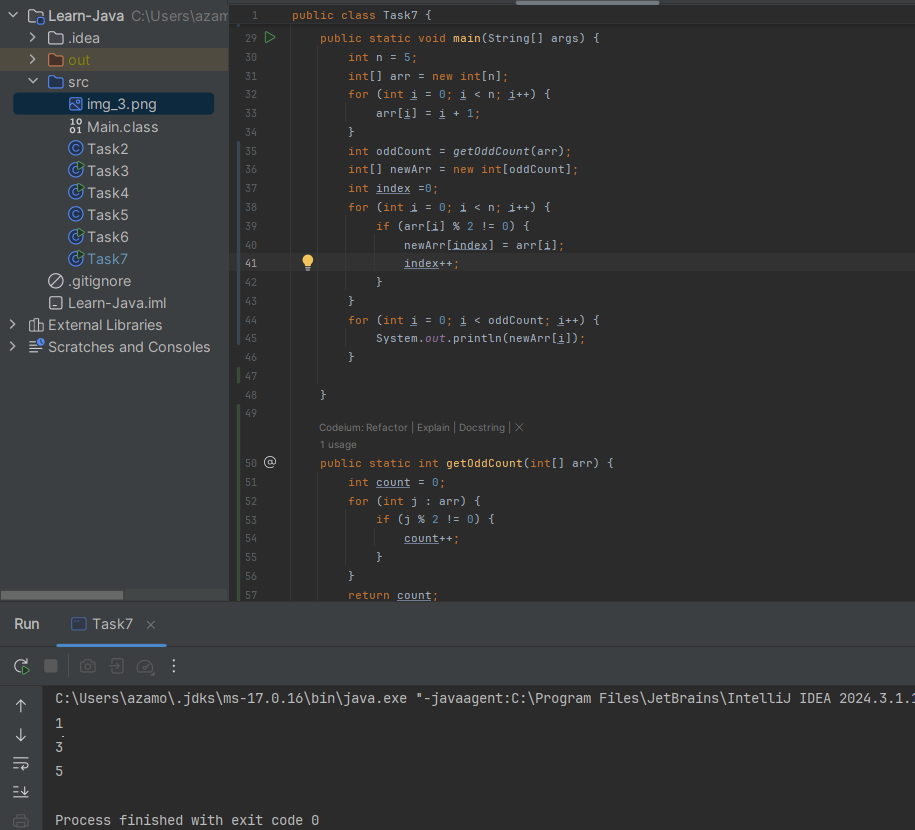
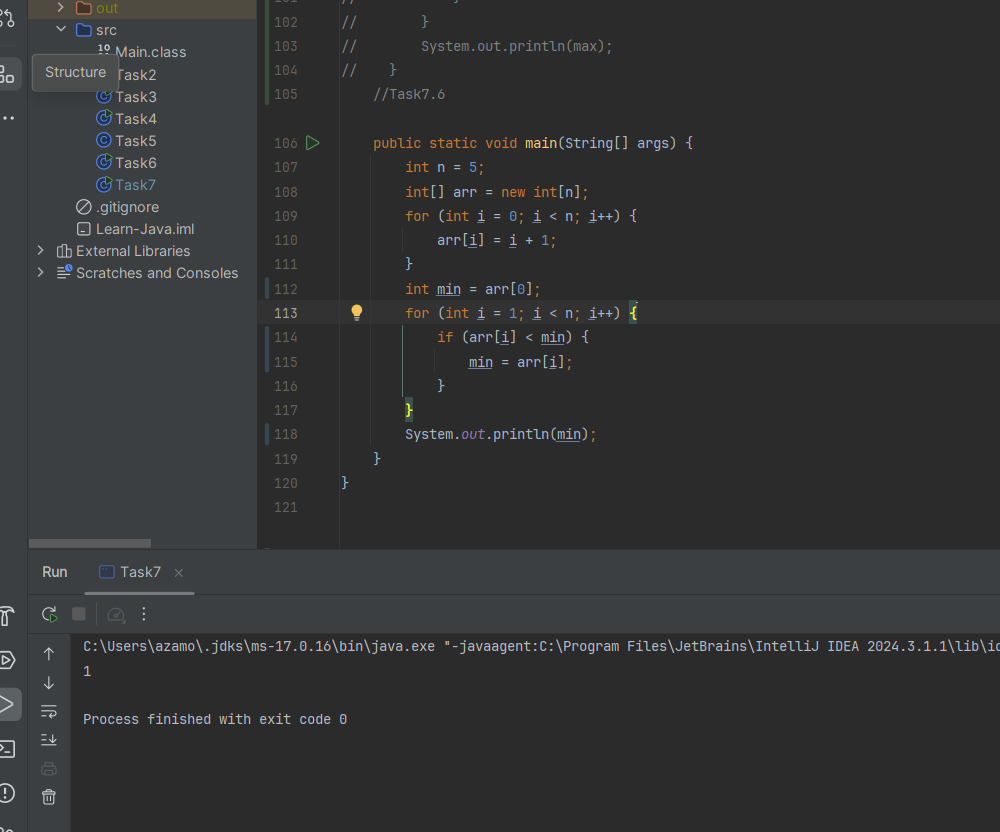
task7.6 done

diff --git a/src/Task7.java b/src/Task7.java
@@ -88,18 +88,33 @@ public class Task7 {
 //        return count;
 //    }
     // Task7.5
+//    public static void main(String[] args) {
+//        int n = 5;
+//        int[] arr = new int[n];
+//        for (int i = 0; i < n; i++) {
+//            arr[i] = i + 1;
+//        }
+//        int max = arr[0];
+//        for (int i = 1; i < n; i++) {
+//            if (arr[i] > max) {
+//                max = arr[i];
+//            }
+//        }
+//        System.out.println(max);
+//    }
+    //Task7.6
     public static void main(String[] args) {
         int n = 5;
         int[] arr = new int[n];
         for (int i = 0; i < n; i++) {
             arr[i] = i + 1;
         }
-        int max = arr[0];
+        int min = arr[0];
         for (int i = 1; i < n; i++) {
-            if (arr[i] > max) {
-                max = arr[i];
+            if (arr[i] < min) {
+                min = arr[i];
             }
         }
-        System.out.println(max);
+        System.out.println(min);
     }
 }
